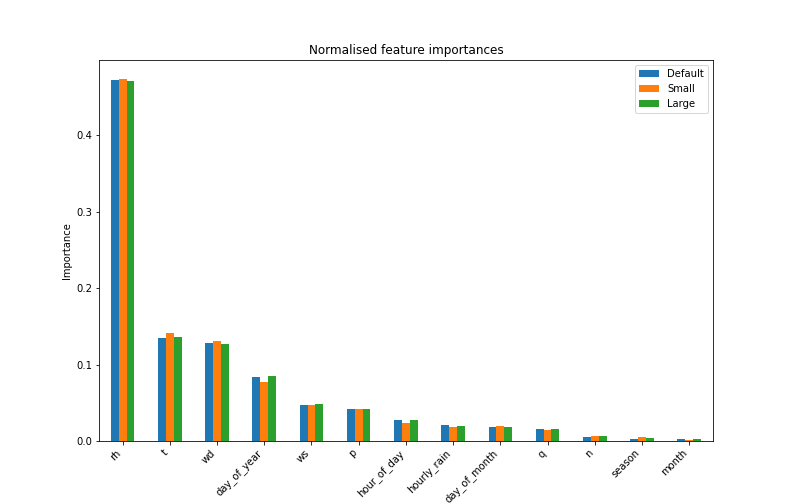
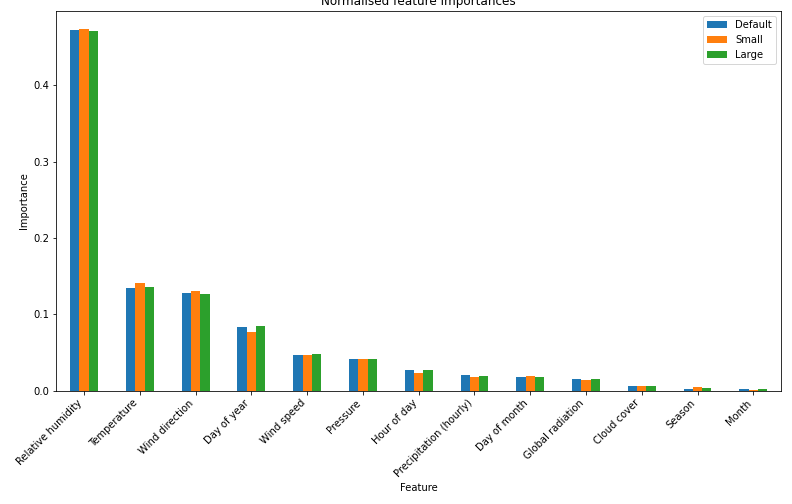
Plotting updated again

diff --git a/RandomForest.py b/RandomForest.py
@@ -687,11 +687,14 @@ feat_importance300 = pd.Series(model300.feature_importances_, index=X.columns)
 
 df_importances = pd.concat([feat_importance30, feat_importance1, feat_importance300],
                            axis=1).rename(columns={0: "Default", 1: "Small", 2: "Large"})
-df_importances["Feature"] = df_importances.index
+df_importances["Feature"] = list(full_variable_names.values())[:-1] \
+                            + ["Month", "Day of month", "Hour of day", "Day of year", "Season"]
 ax = df_importances.sort_values("Default", ascending=False).plot(
     x="Feature", y=["Default", "Small", "Large"], kind="bar", figsize=(11, 7))
 _ = plt.setp(ax.xaxis.get_majorticklabels(), rotation=45, ha="right")
+plt.tight_layout()
 ax.set_ylabel("Importance")
+ax.set_xlabel("Feature")
 ax.set_title("Normalised feature importances")
 plt.savefig(os.path.join(RESULTS_PATH, "model_feature_importances.png"))
 plt.show()
